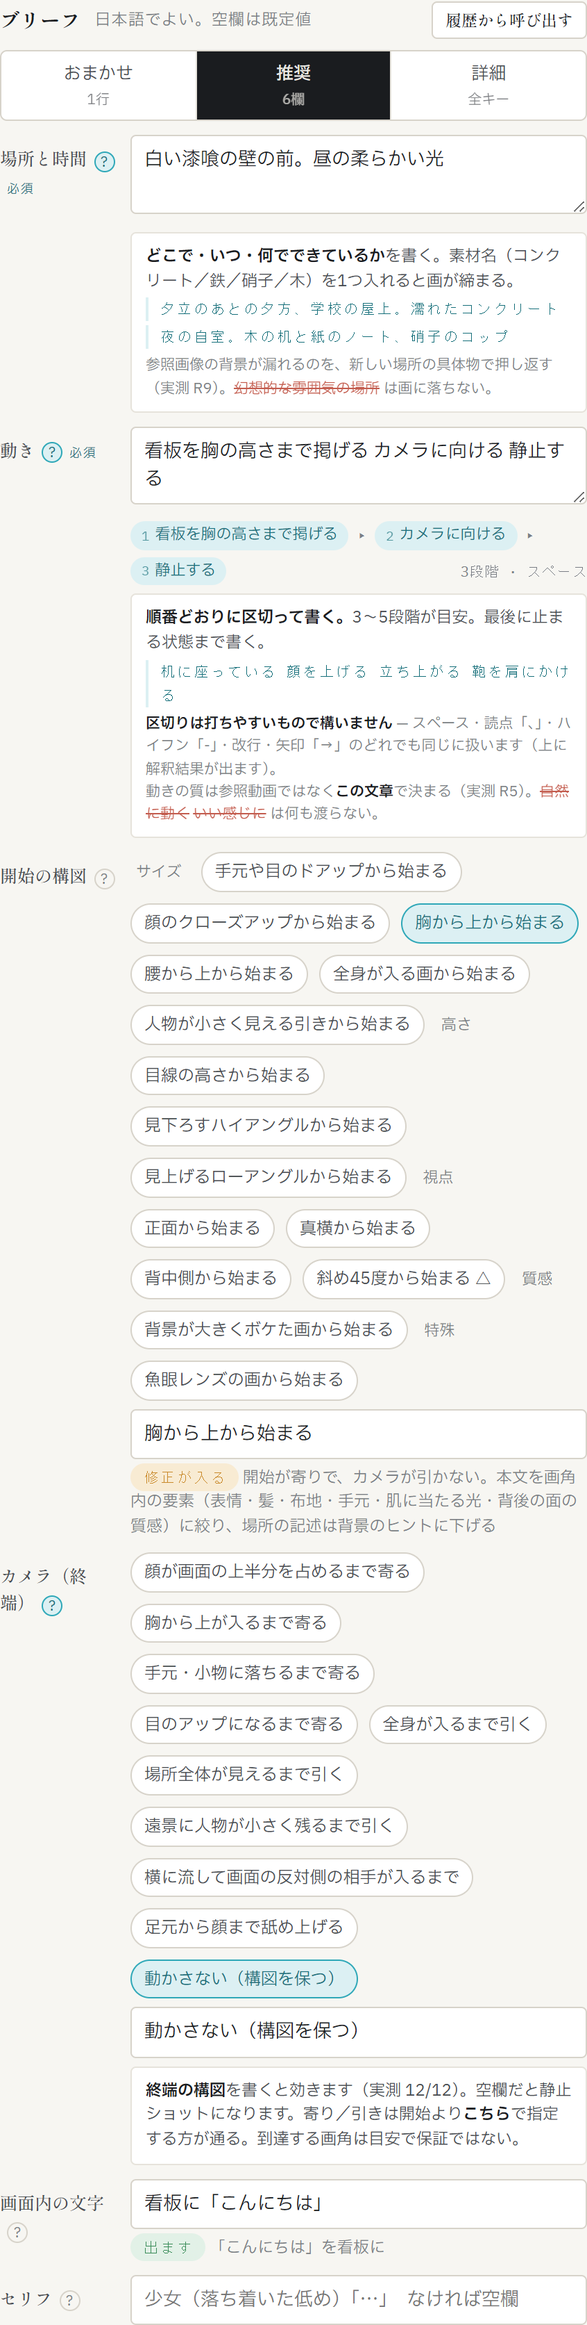
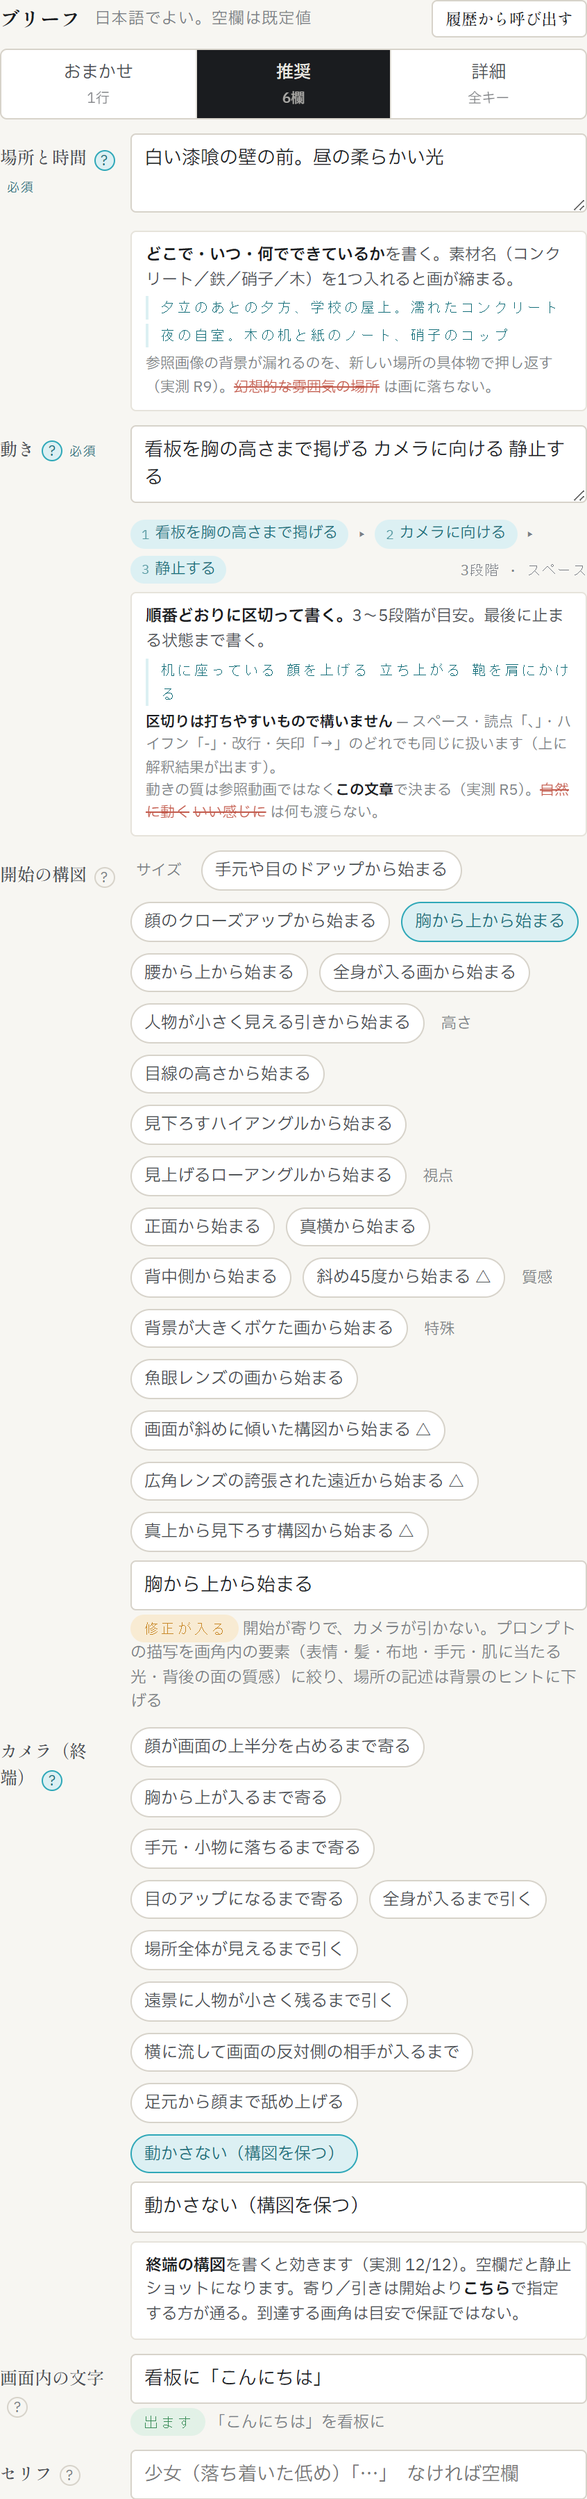
カメラ検証の結論を訂正: ダッチアングル・広角・真俯瞰は効く（望遠だけ本物の×）
「本物の×」4件のうち3件が実は効くと判明（各2seed・対照実験つき）。原因は
サイズ指定で既に解決済みの罠（×9→×0）と同型: カメラ指示だけを詳しくして
本文は普通の世界を描写していたため。望遠の圧縮だけが本物の×として残る。

h3studio/brief.py: FRAMING_PRESETSに3件追加(傾き・広角・真俯瞰。量と向きは
制御できないため二値のみ、度数の選択肢は作らない)。FRAMING_WORLD_NOTEを新設
(選ぶと「その効果に矛盾しない世界を描写しろ」という指示が自動で入る、
FRAMING_FIX_NOTEと同じ「書く対象の差し替え」方式)。system_h3には触れていない
ためv13の回帰56/56に影響なし。

実生成で検証済み: 傾き24.5度(機械測定・対照群-4.8〜-3.0度)、広角は樽型歪みと
極端な遠近、真俯瞰は壁面ゼロ。

static/index.html: helpFramのヘルプ文言を新結論に合わせて修正
(「ダッチアングル・真俯瞰・望遠は効かない」→「傾き・広角・真俯瞰も選べる…
望遠の圧縮だけは効かない」)。内輪の通し番号「(実測 R9)」等も「(実測)」に整理。

README.md/README.en.md・設計書.md・マニュアル(04/07/08)を同結論に更新。
08_付録.mdは虫の視点を「未確認」として別行に新設(再検証範囲外・元の判定は
×でなく△)。images/02_brief.pngを新チップ3つが写る形に撮り直し。

実機確認: GET /api/camera/presets の framing キーが18件。py_compile・
index.htmlパース・規律13の制御文字検査(8ファイル全件クリーン)・段3.5取りこぼし
検査(.gitattributes以外差分なし・旧名grep0件・内輪記号0件)・絶対パス検査、
いずれも合格。

正本はapp\・マニュアル\、詳細はapp\引き継ぎ.md・統括.md「カメラ検証の訂正」節。

diff --git a/static/index.html b/static/index.html
@@ -56,7 +56,7 @@
             <b>どこで・いつ・何でできているか</b>を書く。素材名（コンクリート／鉄／硝子／木）を1つ入れると画が締まる。
             <span class="ex">夕立のあとの夕方、学校の屋上。濡れたコンクリート</span>
             <span class="ex">夜の自室。木の机と紙のノート、硝子のコップ</span>
-            <span class="why">参照画像の背景が漏れるのを、新しい場所の具体物で押し返す（実測 R9）。<span class="bad">幻想的な雰囲気の場所</span> は画に落ちない。</span>
+            <span class="why">参照画像の背景が漏れるのを、新しい場所の具体物で押し返す（実測）。<span class="bad">幻想的な雰囲気の場所</span> は画に落ちない。</span>
           </div>
         </div></div>
       <div class="field"><label class="req">動き<button class="q on" data-help="helpMotion">?</button></label>
@@ -67,7 +67,7 @@
             <b>順番どおりに区切って書く。</b>3〜5段階が目安。最後に止まる状態まで書く。
             <span class="ex">机に座っている 顔を上げる 立ち上がる 鞄を肩にかける</span>
             <span class="why"><b>区切りは打ちやすいもので構いません</b> — スペース・読点「、」・ハイフン「-」・改行・矢印「→」のどれでも同じに扱います（上に解釈結果が出ます）。<br>
-            動きの質は参照動画ではなく<b>この文章</b>で決まる（実測 R5）。<span class="bad">自然に動く</span> <span class="bad">いい感じに</span> は何も渡らない。</span>
+            動きの質は参照動画ではなく<b>この文章</b>で決まる（実測）。<span class="bad">自然に動く</span> <span class="bad">いい感じに</span> は何も渡らない。</span>
           </div>
         </div></div>
       <div class="field"><label>開始の構図<button class="q" data-help="helpFram">?</button></label>
@@ -75,7 +75,7 @@
           <div class="row" id="framChips" style="margin-bottom:6px"></div>
           <input class="in mini" id="bFraming" placeholder="空欄なら LLM が選ぶ（たいてい全身の引き）">
           <div class="hint" id="framingCheck"></div>
-          <div class="help hidden" id="helpFram"><b>1フレーム目の構図</b>。高さ（目線／ハイ／ロー）と視点（正面／真横／背面）は確実に効く。<b>寄り</b>（胸から上より近い）を選んでカメラが引かない場合は、プロンプトの描写を画角内の要素に絞る修正が自動で入る（実測: 絞らないと×9、絞ると×0）。寄りから引く組み合わせは成立しにくいので警告が出る。<span class="bad">ダッチアングル・真俯瞰・望遠</span> は効かないので選択肢にない。</div>
+          <div class="help hidden" id="helpFram"><b>1フレーム目の構図</b>。高さ（目線／ハイ／ロー）と視点（正面／真横／背面）は確実に効く。<b>寄り</b>（胸から上より近い）を選んでカメラが引かない場合は、プロンプトの描写を画角内の要素に絞る修正が自動で入る（実測: 絞らないと×9、絞ると×0）。寄りから引く組み合わせは成立しにくいので警告が出る。<b>斜めに傾いた構図・広角・真俯瞰</b>も選べる。選ぶと、場面全体をその効果に矛盾しない世界として描く指示が自動で入る（これを入れないと効かない）。ただし<b>傾く向き・角度・誇張の強さは選べない</b>。<span class="bad">望遠の圧縮</span> だけは効かないので選択肢にない。</div>
         </div></div>
       <div class="field"><label>カメラ（終端）<button class="q on" data-help="helpCam">?</button></label>
         <div>

diff --git a/h3studio/brief.py b/h3studio/brief.py
@@ -86,8 +86,18 @@ CAMERA_END = {
 
 # 開始の構図（軸1・新設）。2026-08-23 のカメラ検証（61本・ブラインド判定）で
 # 効いたものだけを載せる。size は画角の段階（上の CAMERA_END と同じ目盛り）。
-# 載せていないもの: ダッチアングル（3回とも傾かず）/ 真俯瞰・虫の視点（1段手前で頭打ち）/
-# 望遠の圧縮・広角のパース（記述を具体化しても出ない）。選んでも変わらないものは置かない。
+#
+# 2026-08-27 訂正: ダッチアングル・真俯瞰・広角は「効かない」としていたが誤りだった。
+# 当時の検証は**カメラ節だけを詳しく書き、本文は水平・標準レンズの世界のまま**だったため負けていた
+# （サイズで発見した ×9→×0 の罠と同型。本文が指定と矛盾すると指定が負ける）。
+# 本文ごとその効果に矛盾しない世界として描写したところ、3件とも効いた（各2seed・対照実験つき）。
+# → FRAMING_TILT_NOTE 以下で「本文を書き換える」形で入れてある。
+#
+# 載せていないもの: 望遠の圧縮（本文ごと書き換えた徹底検証でも 2/2 で通常の遠近。本物の×）。
+# 選んでも変わらないものは置かない。
+#
+# ⚠ 傾き・広角・真俯瞰は「効く」が「量と向きは制御できない」。15度と書いても大きく傾き、
+#   時計回りと書いても逆に回ることがある。だから度数・強さの選択肢は作らない（二値にとどめる）。
 FRAMING_PRESETS = [
     # サイズ — プロンプトの描写が部屋全体を描写していると負ける。寄りで動かない画は build() が本文を絞る
     {"label": "手元や目のドアップから始まる",   "group": "サイズ", "size": 0},
@@ -108,7 +118,35 @@ FRAMING_PRESETS = [
     # 質感
     {"label": "背景が大きくボケた画から始まる", "group": "質感"},
     {"label": "魚眼レンズの画から始まる",       "group": "特殊"},
+    # 2026-08-27 追加。本文ごと書き換えないと効かない（下の NOTE が入力を差し替える）。
+    # 量・向きは制御できないので「かける／かけない」の二値だけ。
+    {"label": "画面が斜めに傾いた構図から始まる", "group": "特殊",
+     "note": "傾く向きと角度は選べない（大きく傾くことがある）"},
+    {"label": "広角レンズの誇張された遠近から始まる", "group": "特殊",
+     "note": "誇張の強さは選べない（魚眼に近くなることがある）"},
+    {"label": "真上から見下ろす構図から始まる", "group": "特殊",
+     "note": "壁が写らない真俯瞰になる"},
 ]
+
+# 上の3つを選んだときにブリーフへ足す制約。FRAMING_FIX_NOTE と同じ流儀で、
+# 「その効果を書け」ではなく「その効果と矛盾しない世界を描写しろ」と、書く対象を差し替える。
+# 実測（2026-08-27・各2seed・対照実験つき）: カメラ節だけ詳しくしても効かず、
+# 本文の空間描写をこの形に変えて初めて効いた。
+FRAMING_WORLD_NOTE = {
+    "画面が斜めに傾いた構図から始まる":
+        "場面全体を、傾いた画面ごしに見えるものとして描写する。水平線と床と壁の境目は斜めに走り、"
+        "窓や柱の垂直の縁は画面の辺に対して傾き、窓から差す光は長方形ではなく平行四辺形として床に落ちる。"
+        "人物は世界に対しては直立しているが、画面の辺に対しては斜めに立って見える。"
+        "「傾いている」という言葉ではなく、傾いた結果そう見えるものを書く。",
+    "広角レンズの誇張された遠近から始まる":
+        "場面全体を、広角レンズごしに見えるものとして描写する。手前にあるもの（手・小物）は不釣り合いに大きく、"
+        "奥の壁や人物は異常に遠く小さく見え、窓や柱の直線は画面の縁に近づくほど外側へ膨らむ。"
+        "床と天井は手前から奥へ急激にすぼまる。「広角」という言葉ではなく、広角で見た結果そう見えるものを書く。",
+    "真上から見下ろす構図から始まる":
+        "場面全体を、真上から見下ろした床の平面として描写する。人物は頭頂と肩の丸い塊として見え、"
+        "床が画面のほとんどを占め、壁面は一切見えない。家具や小物は上から見た輪郭で書く。"
+        "「真俯瞰」という言葉ではなく、真上から見た結果そう見えるものを書く。",
+}
 _FRAMING_SIZE = {f["label"]: f["size"] for f in FRAMING_PRESETS if "size" in f}
 
 # 自由記述のときの拾い方（プリセット外でも、寄り・引きの語があれば判定に使う）
@@ -271,7 +309,12 @@ def build(mode: str, fields: dict, proj: dict, selected_images: list[str],
             shot = (shot + "。" if shot and not shot.endswith("。") else shot) + "動き: " + motion
         out.append("SHOT: %s" % shot)
         if framing:
-            out.append("FRAMING: %s%s" % (framing, ("。" + FRAMING_FIX_NOTE) if chk["action"] == "fix" else ""))
+            # 「効果に矛盾しない世界を描写しろ」の制約（傾き・広角・真俯瞰）。サイズの fix とは別系統で、
+            # 両方付くこともある（例: 寄り＋傾き）。どちらも「書く対象の差し替え」なので併記して構わない
+            note = FRAMING_FIX_NOTE if chk["action"] == "fix" else ""
+            world = FRAMING_WORLD_NOTE.get(framing, "")
+            extra = "。".join(x for x in (note, world) if x)
+            out.append("FRAMING: %s%s" % (framing, ("。" + extra) if extra else ""))
         if cam:
             out.append("CAMERA: %s" % cam)
         # 画面内の文字。SHOT とは別行にする。場所欄の外にあるので、寄りの画角で場所が「背景ヒント（画角には

diff --git a/docs/08_付録.md b/docs/08_付録.md
@@ -31,12 +31,15 @@
 | 指定 | 結果 |
 |---|---|
 | カメラ（終端）の方向 | **12/12 で方向どおり**。終端未指定の対照 6本中 5本が静止 |
-| 開始の構図: 高さ（目線／ハイ／ロー） | 効く（真俯瞰・虫の視点は届かず1段手前で頭打ち） |
+| 開始の構図: 高さ（目線／ハイ／ロー） | 効く |
+| 開始の構図: 真俯瞰（真上から） | **効く**（2026-08-27 追加）。壁が写らない真上の画になる。**選択肢にあります** |
+| 開始の構図: 虫の視点（極端なローアングル） | **未確認。選択肢にありません。** 旧検証では真俯瞰と同じ「1段手前で頭打ち」だったが、真俯瞰の失敗が本文の描写ミスマッチによるものと判明した今、同じ原因かは**再検証していない** |
 | 開始の構図: 視点（正面／真横／背面） | 効く（斜め45度は 4件中2件で不安定） |
 | 開始の構図: サイズ（寄り） | **プロンプトの描写を画角内に絞る修正とセットでのみ効く**（絞らないと ×9、絞ると ×0）。アプリが自動で修正 |
 | 被写界深度（背景ボケ） | プロンプトの描写で物理的に書けば効く（アプリのチップが対応） |
-| ダッチアングル | **効かない**（3/3 で水平のまま） |
-| 望遠の圧縮・広角のパース | **効かない** |
+| ダッチアングル（画面が斜めに傾く） | **効く**（2026-08-27 訂正・**選択肢にあります**）。以前「3/3 で水平のまま」としていたのは誤りで、**当時のプロンプトはカメラ指示だけを傾け、本文は水平な世界を描写していた**。本文ごと傾いた世界として描くと効く。**ただし傾く向きと角度は選べない**（実生成の機械測定で24.5度。ブリーフ→ローカルLLM→プロンプト→生成の全経路で確認済み） |
+| 広角レンズの誇張された遠近 | **効く**（2026-08-27 訂正・**選択肢にあります**）。同じく本文ごと広角の世界として描くと効く。**誇張の強さは選べない**（魚眼に近くなることがある） |
+| 望遠レンズの圧縮 | **効かない。**本文ごと書き換えた徹底検証でも 2/2 で通常の遠近になった（2026-08-27 再確認）。**唯一の本物の「効かない」** |
 | 引きで始めて「足元から顔まで舐め上げる」 | 成立しない（0/2。静止か寄りに化ける） |
 | ジャンル差（実写調 vs 2Dアニメ調） | 挙動差なし |
 
@@ -79,7 +82,7 @@
 | `config.gen.vram_mode` の `resident` | **既知の問題があり非推奨。** VRAM を解放しないため、デコード段階で詰まりやすい（実測9本中4本が、時間がかかる・完了も中止もできずComfyUIの再起動が要る、のいずれかになった）。手動で `config.json` に設定しないかぎり選ばれない。**うまくいった回が速いのは「連続して投入したから」ではなく「この設定だから」**——既定の `share` では、投入間隔を詰めて連続生成しても126〜196秒かかる（実測） |
 | ComfyUI 起動引数 `--reserve-vram 3` | **効果なしと実測済み（2026-08-25）。** 付けて起動していても、遅くなる回・完了も中止もできなくなる回の両方が発生する。以前は推奨として案内していたが撤回 |
 | 切り抜きの点・枠指定 | 画面から使えない（テキスト検出のみ） |
-| ダッチアングル・真俯瞰・望遠・広角 | **効かないことが実測済み**（だから選択肢に無い） |
+| 望遠レンズの圧縮 | **効かないことが実測済み**（だから選択肢に無い）。**ダッチアングル・真俯瞰・広角は 2026-08-27 に「効く」と分かり、選択肢に追加しました** |
 | 尺 10秒超 | 破綻する（実測） |
 | 生成結果の自動判定 | しない設計（採否は人が決める） |
 | 外部公開 | 不可（認証なし・127.0.0.1 前提） |

diff --git a/README.md b/README.md
@@ -145,7 +145,9 @@ start.bat
    - **カメラは「終端」＝どこで止まるか**を書く欄（実測 12/12 で方向どおりに動く）。空欄だと静止ショット。**寄り／引きは開始の構図より、こちらで指定する方が通る**
    - **開始の構図**は1フレーム目。高さ（目線／ハイ／ロー）と視点（正面／真横／背面）は語を足すだけで効く。
      **サイズ（寄り）を選ぶと、プロンプトの描写を画角内の要素に絞る修正が自動で入る**（絞らないと描写のほうが勝って指定が黙って無視される・実測 ×9 → ×0）。
-     選んだ組み合わせの判定（そのまま通す／修正が入る／成立しにくい）は欄のすぐ下に出る。**効かないもの（ダッチアングル・真俯瞰・望遠・広角）は選択肢に置いていない**
+     選んだ組み合わせの判定（そのまま通す／修正が入る／成立しにくい）は欄のすぐ下に出る。
+     **ダッチアングル・真俯瞰・広角も選べる**（2026-08-27 追加。選ぶと、場面全体をその効果に矛盾しない世界として描くよう描写が自動で切り替わる。サイズの修正と同じ仕組み）。**ただし傾く向き・角度・誇張の強さは選べない。**
+     **望遠の圧縮だけは選択肢に置いていない**（本文ごと書き換えても効かないことが実測で確認済み）
    - **画面内の文字**は看板や札に出す文字。`看板に「こんにちは」` の形（カギカッコの中がそのまま出る。前に載せる物を書ける）。
      **常用漢字・かな・英数は正確に出る**（実測 9/9）。**稀少な漢字・旧字体は「別の実在漢字」に静かに置き換わる**ので、入力時に水準を判定して警告する
    - **「動き」の区切りは打ちやすいもので構わない。** スペース（半角・全角）／読点「、」／カンマ／ハイフン「-」「－」／改行／矢印「→」のどれでも同じに扱い、LLM には `A → B → C` に揃えて渡す。**どう解釈したかは入力欄のすぐ下に段階として出る**ので、割れ方がおかしければその場で直せる。`3-5歩` のような数値範囲は割らないし、長音「ー」は区切りにしない

diff --git a/README.en.md b/README.en.md
@@ -134,7 +134,9 @@ Everything environment-specific lives in **`config.json`**; there are no paths i
    - **Camera means the END framing** — where the shot comes to rest (measured: direction correct 12/12). Empty means a static shot. **Prefer specifying push-in / pull-out here rather than in the opening framing**
    - **Opening framing** is frame 1. Height (eye level / high / low) and viewpoint (front / profile / behind) work by naming them.
      **Choosing a tight size also constrains the body text to what fits the frame** — without that constraint the prose wins and the size is silently ignored (measured: ×9 → ×0).
-     The verdict for your combination (pass / adjusted / unlikely to work) appears right under the field. **Options that do not work at all — dutch angle, top-down, telephoto, wide-angle — are not offered.**
+     The verdict for your combination (pass / adjusted / unlikely to work) appears right under the field.
+     **Dutch angle, top-down and wide-angle are also offered** (added 2026-08-27): picking one rewrites the whole scene description into a world consistent with that effect — the same mechanism as the size fix. **The direction, the angle and the strength cannot be chosen.**
+     **Only telephoto compression is not offered** — it does not work even when the whole scene is rewritten for it (measured).
    - **On-screen text** is writing on a sign, card or screen. Write it as `看板に「こんにちは」` — whatever is inside the quotes is reproduced verbatim, and anything before it names what carries the text.
      **Everyday kanji, kana and ASCII come out correctly** (measured 9/9). **Rare kanji and old variant forms are silently replaced by a different real character**, so the app classifies the input and warns
    - **Separate motion beats however you like** — spaces, commas, hyphens, newlines or arrows all work; the app normalizes to `A → B → C` and shows you how it parsed the line right below the field

diff --git a/docs/04_ブリーフの書き方.md b/docs/04_ブリーフの書き方.md
@@ -42,7 +42,8 @@
 - **高さ**（目線／ハイアングル／ローアングル）と**視点**（正面／真横／背中側）は、選ぶだけで確実に効きます
 - **サイズ**（ドアップ〜引き）は事情が違います。下の「3つの判定」を読んでください
 - 「斜め45度」は**不安定**です（実測 4件中2件しか当たらず、正面か真横に寄る）。チップに注記があります
-- **ダッチアングル・真俯瞰・虫の視点・望遠・広角は選択肢にありません。** 記述を強化しても効かないことが実測で確認されたためです（選んでも変わらないものは置かない方針）
+- **ダッチアングル・真俯瞰・広角は選択肢にあります**（2026-08-27 追加）。以前は「効かない」として載せていませんでしたが、**当時の検証はカメラ指示だけを変えて本文は普通の世界を描写していた**ための誤りでした。選ぶと、場面全体をその効果に矛盾しない世界として描くよう自動で切り替わります。**ただし傾く向き・角度・誇張の強さは選べません**（傾きは実生成の機械測定で24.5度。ブリーフから生成までアプリの全経路で確認済み）
+- **望遠の圧縮だけは選択肢にありません。**本文ごと書き換えても効かないことが確認できているためです（選んでも変わらないものは置かない方針）
 
 ### 3つの判定 — 欄の下に出るバッジの意味
 

diff --git a/docs/07_困ったとき.md b/docs/07_困ったとき.md
@@ -48,7 +48,7 @@
 1. **開始の構図の下の判定**を見る。「成立しにくい」なら組み合わせ自体を変える（[04](04_ブリーフの書き方.md#開始の構図)）
 2. **寄り・引きはカメラ（終端）で指定したか。** 開始の構図のサイズ指定より、終端で書く方が確実に通ります（実測 12/12）
 3. カメラ欄が**空欄なら静止ショット**になります。動かしたいなら終端を書く
-4. ダッチアングル・真俯瞰・望遠・広角を自由記述で書いていないか。**書いても効きません**（実測）
+4. 望遠の圧縮を自由記述で書いていないか。**書いても効きません**（実測）。**ダッチアングル・真俯瞰・広角は効きます**が、自由記述より**「開始の構図」欄の選択肢を選ぶほうが確実**です（選ぶと場面全体の描写がその効果に合わせて自動で切り替わります）
 5. 右ペインの「ブリーフ（実際に LLM へ渡した文）」とプロンプト本文を読み、意図がそもそも英語のプロンプトに入っているかを確認
 
 ### 画面内の文字が違う字になる・出ない
